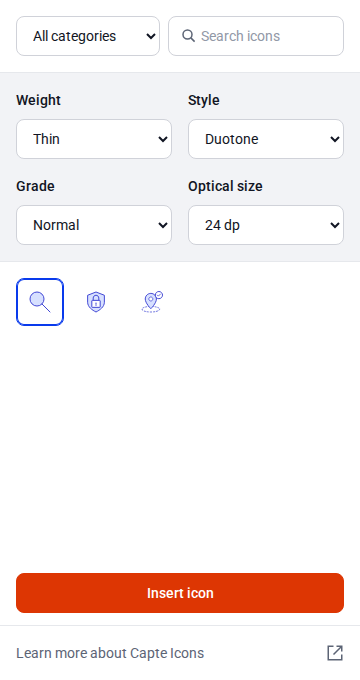
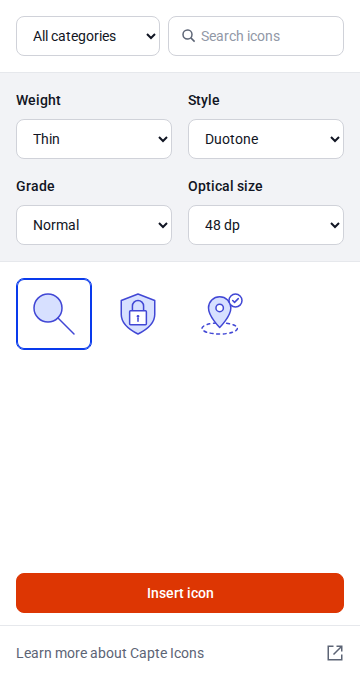
Fix actual 40/48 dp preview sizing and 8px action corners in v0.1.6

diff --git a/apps/docs/index.html b/apps/docs/index.html
@@ -5,4 +5,4 @@
 <h2>Choose the right treatment</h2><table><thead><tr><th>Control</th><th>What it changes</th></tr></thead><tbody><tr><td>Optical size</td><td>20, 24, 40 or 48 dp (the same numeric SVG/Figma dimensions). Small artwork has deliberate adjustments for compact details.</td></tr><tr><td>Weight</td><td>Thin, Medium or Heavy establishes the base stroke thickness.</td></tr><tr><td>Grade</td><td>Dark slightly reduces the stroke, Normal preserves the baseline, and Emphasis adds thickness.</td></tr><tr><td>Style</td><td>Outline, Filled or the original Duotone treatment.</td></tr><tr><td>Color</td><td>Light or Dark palette, selected in the top-right. This is independent of Grade.</td></tr></tbody></table>
 <h3>Update an inserted icon</h3><p>Select one icon inserted by this plugin, or a vector inside it. The plugin loads its saved settings. Changes to size, weight, grade, style, or icon choice apply immediately. The plugin uses the Light palette; the explorer retains its palette control. Click <strong>Insert icon</strong> to replace the selected plugin-generated icon. Deselect it first to create another. Its root layer and placement are retained; generated artwork is replaced. Manual edits inside the icon are overwritten.</p>
 <h3>Use on the web</h3><p>Download or copy the SVG at the intended size. Use empty alternative text for decorative images. Give meaningful icons an accessible name, and label buttons that would otherwise contain only an icon. Check contrast on the actual page background.</p><p>Web SVG exports retain fixed colors and live strokes. Figma insertion converts strokes to filled paths and binds colors to published Capte variables or reusable local tokens. Source geometry updates still require reinsertion or editing through the plugin.</p>
-<h2>How this library is maintained</h2><p>Artwork is designed and approved in Figma, exported into a versioned catalog, and rendered by the same package in the plugin and explorer. Stable IDs connect names, search terms, and saved settings.</p><h2 id="releases">Release notes</h2><h3>0.1.5 — Review build</h3><p>A compact plugin panel, dp labels, selection replacement, outlined vector insertion, color-variable binding, and an inactive documentation row pending its URL.</p><h3>0.1.3 — Live editing and design tokens</h3><p>Selected icons update as controls change. Insert icon creates another icon. The shared interface uses exported Capte tokens and bundled Roboto fonts.</p><h3>0.1.2 — One insert action</h3><p>A single Insert icon button applies settings to the selected Capte icon or inserts a new icon when none is selected. Choosing another catalog icon still replaces the selected icon immediately.</p><h3>0.1.1 — Selection and replacement</h3><p>Improved host-message handling and nested selection, immediate replacement on catalog choice, and a compact Light/Dark control in the header.</p><h3>0.1.0 — Three-icon development pilot</h3><p>Four optical sizes, three weights, three grades, three styles, and two color palettes. Includes editable vector insertion, selection updates, SVG downloads, and this explorer.</p></article></main><footer>Capte Icons / Review build 0.1.5</footer><script type="module" src="./main.js"></script></body></html>
+<h2>How this library is maintained</h2><p>Artwork is designed and approved in Figma, exported into a versioned catalog, and rendered by the same package in the plugin and explorer. Stable IDs connect names, search terms, and saved settings.</p><h2 id="releases">Release notes</h2><h3>0.1.6 — Review build</h3><p>A compact plugin panel, dp labels, selection replacement, outlined vector insertion, color-variable binding, and an inactive documentation row pending its URL.</p><h3>0.1.3 — Live editing and design tokens</h3><p>Selected icons update as controls change. Insert icon creates another icon. The shared interface uses exported Capte tokens and bundled Roboto fonts.</p><h3>0.1.2 — One insert action</h3><p>A single Insert icon button applies settings to the selected Capte icon or inserts a new icon when none is selected. Choosing another catalog icon still replaces the selected icon immediately.</p><h3>0.1.1 — Selection and replacement</h3><p>Improved host-message handling and nested selection, immediate replacement on catalog choice, and a compact Light/Dark control in the header.</p><h3>0.1.0 — Three-icon development pilot</h3><p>Four optical sizes, three weights, three grades, three styles, and two color palettes. Includes editable vector insertion, selection updates, SVG downloads, and this explorer.</p></article></main><footer>Capte Icons / Review build 0.1.6</footer><script type="module" src="./main.js"></script></body></html>

diff --git a/packages/ui/explorer.ts b/packages/ui/explorer.ts
@@ -15,7 +15,7 @@ export function mountExplorer(root: HTMLElement, config: ExplorerConfig = {}) {
   root.innerHTML = config.plugin ? `<div class="plugin-topbar"><label class="category-control"><span class="sr-only">Category</span><select id="category" aria-label="Category">${categoryOptions}</select></label><label class="search-control"><svg aria-hidden="true" class="search-symbol" width="18" height="18" viewBox="0 0 24 24" fill="none" stroke="currentColor" stroke-width="2"><circle cx="10" cy="10" r="6"/><path d="m14.5 14.5 5 5"/></svg><input type="search" id="search" aria-label="Search icons" placeholder="Search icons" autocomplete="off"></label></div>
     <div class="workspace"><aside class="controls" aria-label="Icon settings"><div class="fields"></div><div class="selected-preview" hidden></div><strong class="selected-name" hidden></strong></aside><section class="browser" aria-label="Icon catalog"><span id="count" class="sr-only" role="status"></span><div class="icon-grid"></div></section></div>
     <div class="plugin-actions"><p class="status" role="status" aria-live="polite"></p><div class="actions"></div></div>
-    <footer class="documentation"><span role="link" aria-disabled="true" title="Documentation link coming soon">Learn more about Capte Icons<svg aria-hidden="true" width="18" height="18" viewBox="0 0 24 24" fill="none" stroke="currentColor" stroke-width="2"><path d="M14 3h7v7M21 3 10 14M10 3H3v18h18v-7"/></svg></span></footer>` : `<header class="masthead"><div><span class="eyebrow">CAPTE / DESIGN SYSTEM</span><h1>Icons, with intention.</h1><p>A small pilot for a consistent visual language.</p></div><div class="header-tools"><div class="color-control"></div><span class="version">0.1.5 · Pilot</span></div></header>
+    <footer class="documentation"><span role="link" aria-disabled="true" title="Documentation link coming soon">Learn more about Capte Icons<svg aria-hidden="true" width="18" height="18" viewBox="0 0 24 24" fill="none" stroke="currentColor" stroke-width="2"><path d="M14 3h7v7M21 3 10 14M10 3H3v18h18v-7"/></svg></span></footer>` : `<header class="masthead"><div><span class="eyebrow">CAPTE / DESIGN SYSTEM</span><h1>Icons, with intention.</h1><p>A small pilot for a consistent visual language.</p></div><div class="header-tools"><div class="color-control"></div><span class="version">0.1.6 · Pilot</span></div></header>
     <div class="workspace"><aside class="controls" aria-label="Icon settings"><h2>Customize</h2><div class="fields"></div><p class="hint">Grade adjusts stroke thickness independently of the color palette.</p><div class="selected-preview" aria-label="Selected icon preview"></div><strong class="selected-name"></strong><div class="actions"></div><p class="status" role="status" aria-live="polite"></p></aside>
     <section class="browser" aria-label="Icon catalog"><div class="searchbar"><label>Search icons<input type="search" id="search" placeholder="Search names or keywords" autocomplete="off"></label><label>Category<select id="category"><option value="all">All categories</option>${[...new Set(icons.map(i => i.category))].map(c => `<option>${c}</option>`).join('')}</select></label></div><div class="catalog-heading"><h2>Pilot collection</h2><span id="count"></span></div><div class="icon-grid"></div><p class="hint">Three approved icons. More will join after the plugin workflow is validated.</p></section></div>`;
   root.classList.toggle('plugin', !!config.plugin);

diff --git a/packages/ui/styles.css b/packages/ui/styles.css
@@ -137,17 +137,17 @@ footer { max-width: 1000px; margin: 0 auto; padding: var(--capte-spacer-small-pl
 .plugin .fields { margin: 0; gap: var(--capte-spacing-4); }
 .plugin .fields select { border-radius: var(--capte-radius-md); background: var(--capte-background-surface); height: 40px; padding: var(--capte-spacing-2) var(--capte-spacing-3); }
 .plugin .browser { flex: 1; min-height: 0; overflow-y: auto; padding: var(--capte-spacing-4); }
-.plugin .icon-grid { grid-template-columns: repeat(6, minmax(0, 1fr)); gap: var(--capte-spacing-2); }
-.plugin .icon-card { min-height: 48px; height: 48px; padding: var(--capte-spacing-1); border-color: transparent; border-radius: var(--capte-radius-md); gap: 0; }
+.plugin .icon-grid { grid-template-columns: repeat(auto-fill, minmax(72px, 1fr)); gap: var(--capte-spacing-2); }
+.plugin .icon-card { min-height: 72px; height: 72px; padding: var(--capte-spacing-2); border-color: transparent; border-radius: var(--capte-radius-md); gap: 0; }
 .plugin .icon-card:hover { background: var(--capte-background-subtle); }
 .plugin .icon-card[aria-pressed=true] { border-color: var(--capte-border-focus); }
 .plugin .card-art { height: 100%; background: transparent; }
-.plugin .card-art svg { max-width: 100%; max-height: 100%; }
+.plugin .card-art svg { max-width: none; max-height: none; }
 .plugin .icon-card strong, .plugin .icon-card small { display: none; }
 .plugin .plugin-actions { flex-shrink: 0; padding: 0 var(--capte-spacing-4) var(--capte-spacing-3); }
 .plugin .plugin-actions .status:empty { display: none; }
 .plugin .actions { margin: var(--capte-spacing-2) 0 0; }
-.plugin .actions button { padding: var(--capte-spacing-2); }
+.plugin .actions button { padding: var(--capte-spacing-2); border-radius: var(--capte-radius-md); }
 .plugin .documentation { flex-shrink: 0; width: 100%; margin: 0; padding: var(--capte-spacing-4); font-size: var(--capte-type-body-small-regular-font-size); }
 .plugin .documentation > span { display: flex; justify-content: space-between; align-items: center; gap: var(--capte-spacing-3); color: var(--capte-text-secondary); cursor: default; }
 .plugin .documentation svg { flex-shrink: 0; }

diff --git a/README.md b/README.md
@@ -4,9 +4,9 @@
 
 [![Checks](https://github.com/john-l-hansen/capte-icons/actions/workflows/check.yml/badge.svg)](https://github.com/john-l-hansen/capte-icons/actions/workflows/check.yml)
 
-**Review build: 0.1.5 · Three pilot icons**
+**Review build: 0.1.6 · Three pilot icons**
 
-Version 0.1.5 is prepared for the next review round. The latest published download below remains 0.1.3 until a new release is approved.
+Version 0.1.6 is prepared for the next review round. The latest published download below remains 0.1.3 until a new release is approved.
 
 [Download the Figma plugin](https://github.com/john-l-hansen/capte-icons/releases/download/v0.1.3/capte-icons-figma-plugin-0.1.3.zip) · [Release notes](https://github.com/john-l-hansen/capte-icons/releases/tag/v0.1.3) · [Installation guide](INSTALL.md) · [Usage guide](docs/usage.md) · [Roadmap](docs/roadmap.md)
 
@@ -49,7 +49,7 @@ Inserted icons use editable filled vector paths with outlined strokes. Colors bi
 
 | Verified | Still to confirm |
 | --- | --- |
-| Earlier pilot launch and initial appearance confirmed by the project owner | Full 0.1.5 live-editing, token binding, and undo/redo pass inside Figma Desktop |
+| Earlier pilot launch and initial appearance confirmed by the project owner | Full 0.1.6 live-editing, token binding, and undo/redo pass inside Figma Desktop |
 | TypeScript, 17 renderer/controller tests, all 648 configurations, both builds | Detailed artwork comparison in the editor |
 | Chromium checks: controls, rapid edits, target switching, downloads, preferences, layouts | Full catalog expansion |
 | Light/Dark interfaces visually reviewed against exported tokens | Community distribution and production website |
@@ -62,7 +62,7 @@ Automated controller tests use a mocked Figma API. The [editor acceptance checkl
 | --- | --- |
 | Install or update the plugin | [Installation](INSTALL.md) |
 | Understand controls and live editing | [Usage](docs/usage.md) |
-| See what's changed | [Changelog](CHANGELOG.md) and [0.1.5 notes](releases/0.1.5.md) |
+| See what's changed | [Changelog](CHANGELOG.md) and [0.1.6 notes](releases/0.1.6.md) |
 | See what's next | [Roadmap](docs/roadmap.md) |
 | Build or contribute | [Contributing](CONTRIBUTING.md) |
 | Understand shared artwork and rendering | [Architecture](docs/architecture.md) |

diff --git a/docs/acceptance.md b/docs/acceptance.md
@@ -1,4 +1,4 @@
-# Pilot acceptance — 0.1.5
+# Pilot acceptance — 0.1.6
 
 ## Verified
 
@@ -10,7 +10,7 @@ Controller tests use a mock Plugin API. The native probe verifies outline conver
 
 ## Owner's Figma Desktop review
 
-1. Install the supplied 0.1.5 ZIP and reopen the plugin. Confirm category/search, four controls, and the documentation row, which must not navigate.
+1. Install the supplied 0.1.6 ZIP and reopen the plugin. Confirm category/search, four controls, and the documentation row, which must not navigate.
 2. Insert each icon at 20, 24, 40, and 48 dp. Confirm matching numeric frame dimensions.
 3. Compare all styles, weights, and grades, especially small lock/badge details. Inspect child shapes: no live strokes; editable filled paths.
 4. Inspect fill bindings. When the source is unpublished, confirm one local Capte Icons collection is reused. Edit a local color, confirm existing artwork follows it, and insert again to ensure its value is not reset.
@@ -21,4 +21,4 @@ Controller tests use a mock Plugin API. The native probe verifies outline conver
 9. Check undo/redo for insertion/replacement. Re-select afterward to reload metadata. Confirm bindings recover if undo removes the local token collection.
 10. Reopen and check preferences. The plugin uses Light; the website explorer retains Color. Web SVG exports still use live strokes.
 
-Earlier pilot launch/appearance was confirmed by the owner on 2026-10-15. This 0.1.5 installed-plugin checklist remains pending.
+Earlier pilot launch/appearance was confirmed by the owner on 2026-10-15. This 0.1.6 installed-plugin checklist remains pending.

diff --git a/INSTALL.md b/INSTALL.md
@@ -2,7 +2,7 @@
 
 This is the **three-icon team preview**. It uses Figma's development-plugin installation flow. No Node.js, command line, API key, or source-file access is needed for the compiled ZIP.
 
-For the 0.1.5 review build, use the ZIP supplied with the review or the pull-request build artifact. The release link below remains the published 0.1.3 preview until 0.1.5 is approved.
+For the 0.1.6 review build, use the ZIP supplied with the review or the pull-request build artifact. The release link below remains the published 0.1.3 preview until 0.1.6 is approved.
 
 ## First installation
 
@@ -41,4 +41,4 @@ GitHub pushes and downloaded ZIPs do not update an installed copy by themselves.
 | Need a second icon | Click **Insert icon**. Deselect the current Capte icon, then click Insert icon. |
 | Controls differ after undo | Re-select the canvas icon to reload its stored settings. Editor undo/redo verification is part of team testing. |
 
-Report issues with the installed version (the current review build is **0.1.5**), your Figma Desktop/OS version, icon/settings, expected behavior, actual behavior, and reproduction steps. Use the repository's bug report form.
+Report issues with the installed version (the current review build is **0.1.6**), your Figma Desktop/OS version, icon/settings, expected behavior, actual behavior, and reproduction steps. Use the repository's bug report form.

diff --git a/CHANGELOG.md b/CHANGELOG.md
@@ -1,5 +1,12 @@
 # Changelog
 
+## 0.1.6 — Review build — 2026-10-16
+
+- Give preview cells enough room for full-size icons instead of clamping 40 and 48 dp to the same space.
+- Render previews at their actual selected dimensions, with responsive grid columns.
+- Explicitly apply the 8px token to action-button corners.
+- Add a browser regression measuring actual 40/48 preview bounds and their 1.2 size ratio.
+
 ## 0.1.5 — Review build — 2026-10-16
 
 - Match category and search field typography at 14px with consistent weight and vertical alignment.

diff --git a/releases/0.1.6.md b/releases/0.1.6.md
@@ -1,0 +1,7 @@
+# Capte Icons 0.1.6 — Review build
+
+- Icon previews render at their selected dimensions: 40 dp and 48 dp display at 40 and 48 CSS pixels, respectively. The larger size is 20% wider and taller.
+- Roomier responsive grid cells prevent the larger preview from being squeezed down.
+- Insert icon and other action buttons explicitly use the existing 8px corner-radius token.
+
+All insertion, replacement, outline, token, search, and filter behavior is retained. The catalog remains three pilot icons.

diff --git a/docs/usage.md b/docs/usage.md
@@ -1,4 +1,4 @@
-# Using Capte Icons 0.1.5
+# Using Capte Icons 0.1.6
 
 Choose an icon and settings, then click **Insert icon**. If one plugin-generated Capte icon is selected, it is replaced in place. **Deselect it to insert another.** Selecting a vector inside an owned icon also works. Unrelated artwork, multiple selections, and locked roots or parents are not overwritten. Edit icons inside component instances through their main component.
 
